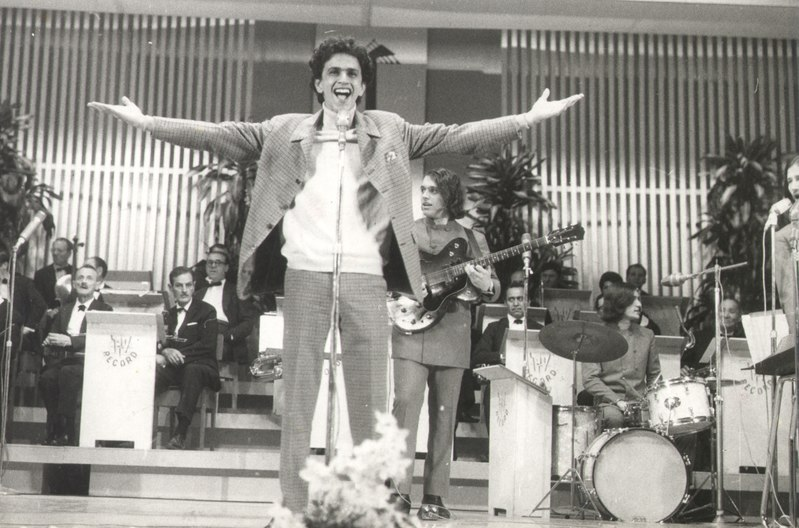
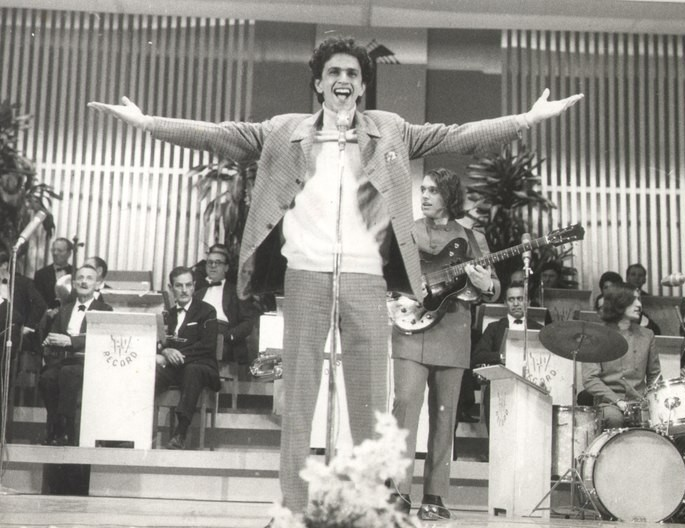
Botão de contraste e javascript

diff --git a/index.html b/index.html
@@ -22,10 +22,11 @@
                 <li class="nav-item"><a class="nav-link" href="#contato">Contato</a></li>
             </ul>
             <div id="acessibilidade" class="menu-acessibilidade">
-                <button class="btn btn-primary fw-bold rotacao-botao">acessibilidade</button>
+                <button id="botao-acessibilidade" class="btn btn-primary fw-bold rotacao-botao">acessibilidade</button>
                 <div id="opcoes-acessibilidade" class="opcoes-acessibilidade apresenta-lista">
                     <button id="aumentar-fonte" class="btn btn-primary fw-bold">A+</button>
                     <button id="diminuir-fonte" class="btn btn-primary fw-bold">A-</button>
+                    <button id="alterna-contraste" class="btn btn-primary fw-bold"> <i class="bi bi-shadows"></i></button>
                 </div>
             </div>             
         </nav>
@@ -46,7 +47,7 @@
                         class="btn btn-primary btn-lg botao-inicio fw-semibold">Quero
                         conhecer!</a>
                 </div>
-                <img src="img/caetano-veloso.jpg" alt="Foto do cantor Caetano Veloso cantando em um palco com sua banda ao fundo, ele está com um sorriso no rosto, com os braços abertos e palmas das mãos viradas para cima. Foto em estilo preto e branco." title="Caetano Veloso no III Festival da Música Popular. Fundo documental: Correio da Manhã" class="img-fluid img-inicio">
+                <img src="img/caetano-veloso.jpg" alt="Foto do cantor Caetano Veloso cantando em um palco com sua banda ao fundo, ele está com um sorriso no rosto, com os braços abertos e palmas das mãos viradas para cima. Foto em estilo preto e branco." title="Caetano Veloso no III Festival da Música Popular. Fundo documental: Correio da Manhã" class="img-fluid img-inicio" style="padding-right: 15px;">
             </div>
         </section>
 

diff --git a/styles.css b/styles.css
@@ -3,6 +3,9 @@
 
 :root {
     --laranja-claro: #FF862A;
+    --alto-contraste-fundo: #000000;
+    --alto-contraste-texto: #ffffff;
+    --alto-contraste-link: #ffd700;
 }
 
 body {
@@ -165,4 +168,40 @@ h2 {
 
 .apresenta-lista{
     display: none;
+}
+
+/* CONTRASTE DE ACESSIBILIDADE */
+.alto-contraste{
+    background-color: var(--alto-contraste-fundo);
+    color: var(--alto-contraste-texto);
+}
+
+.alto-contraste header,
+.alto-contraste footer,
+.alto-contraste .formulario{
+    background-color: var(--alto-contraste-fundo);
+    color: var(--alto-contraste-texto);
+}
+
+.alto-contraste .nav-link{
+    color: var(--alto-contraste-link);
+}
+
+.alto-contraste .botao-inicio,
+.alto-contraste .formulario button,
+.alto-contraste .btn-primary{
+    background-color: var(--alto-contraste-link);
+    color: var(--alto-contraste-fundo)
+}
+
+.alto-contraste #tropicalia {
+    background: none;
+}
+
+.alto-contraste .fundo-galeria {
+    background: none;
+}
+
+.alto-contraste #galeria {
+    background-color: var(--alto-contraste-fundo);
 }

diff --git a/script.js b/script.js
@@ -13,4 +13,18 @@ document.addEventListener('DOMContentLoaded', function(){
         tamanhoFonte -= 0.1;
         document.body.style.fontSize = tamanhoFonte + 'rem';
     })
+
+    const botaoAcessibilidade = document.getElementById('botao-acessibilidade');
+    const opcoesAcessibilidade = document.getElementById('opcoes-acessibilidade');
+
+    botaoAcessibilidade.addEventListener('click', function(){
+        botaoAcessibilidade.classList.toggle('rotacao-botao');
+        opcoesAcessibilidade.classList.toggle('apresenta-lista');
+    })
+
+    const alternaContraste = document.getElementById('alterna-contraste')
+
+    alternaContraste.addEventListener('click', function(){
+        document.body.classList.toggle('alto-contraste')
+})
 })
